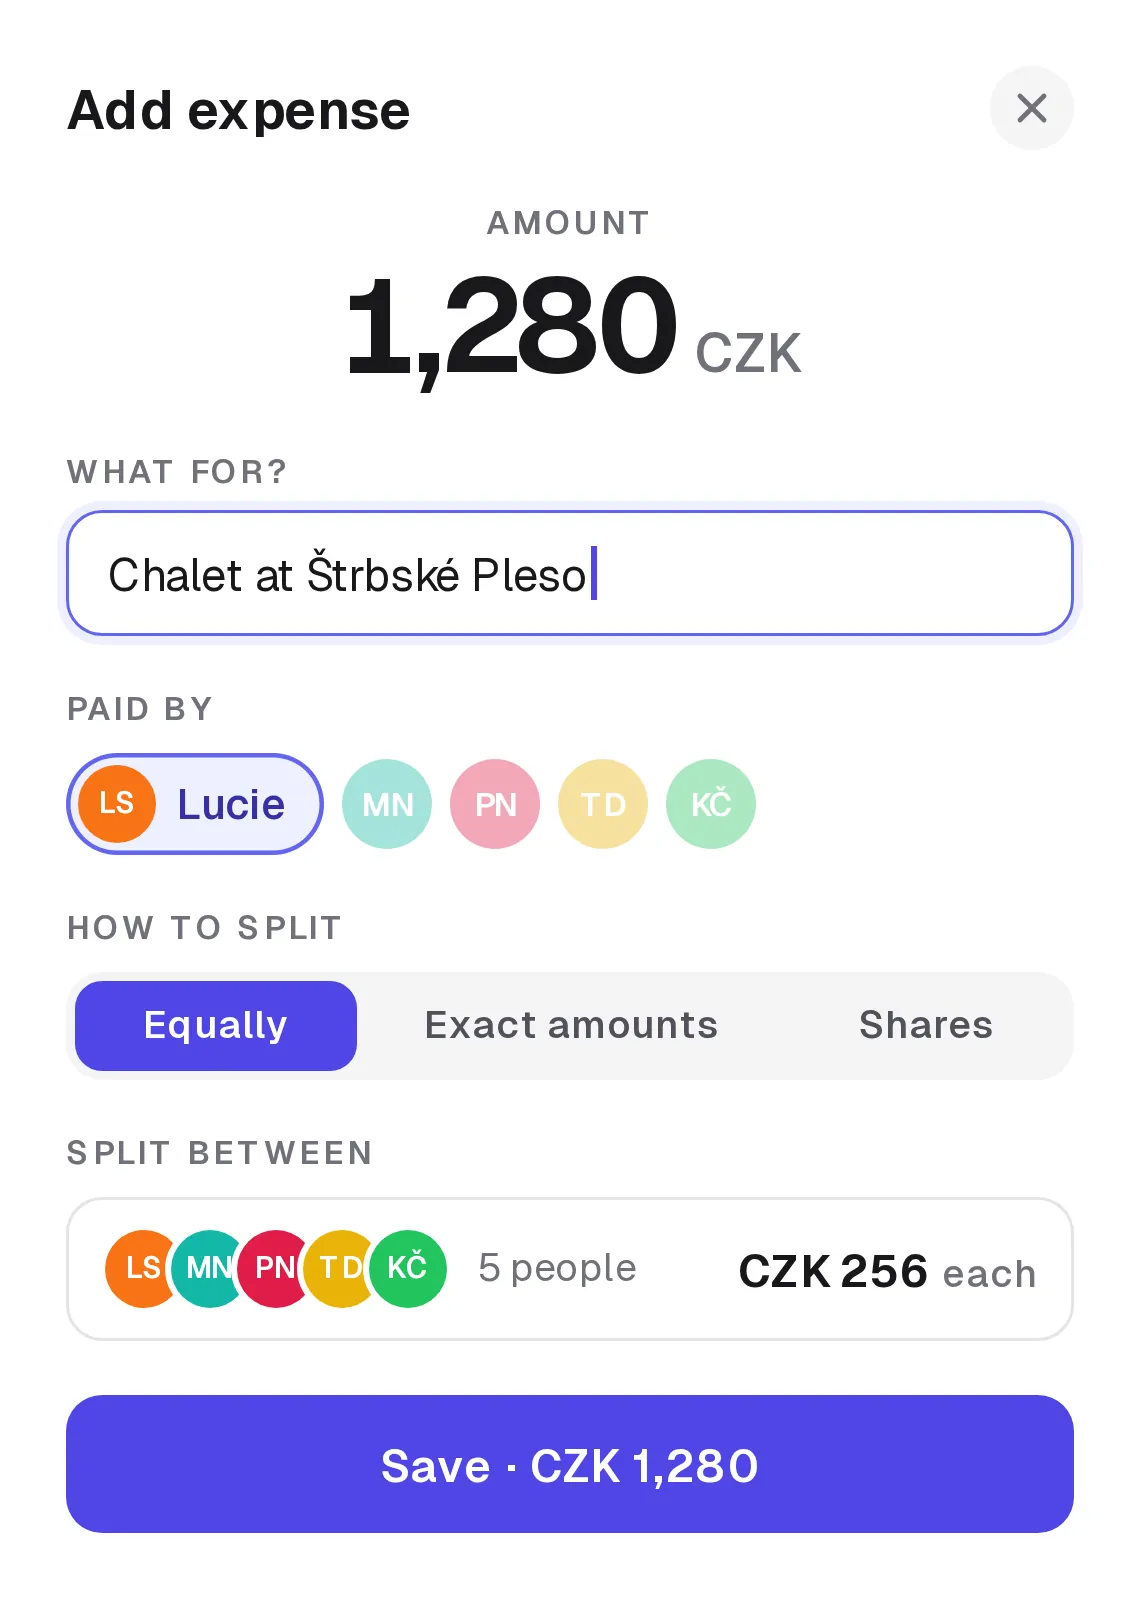
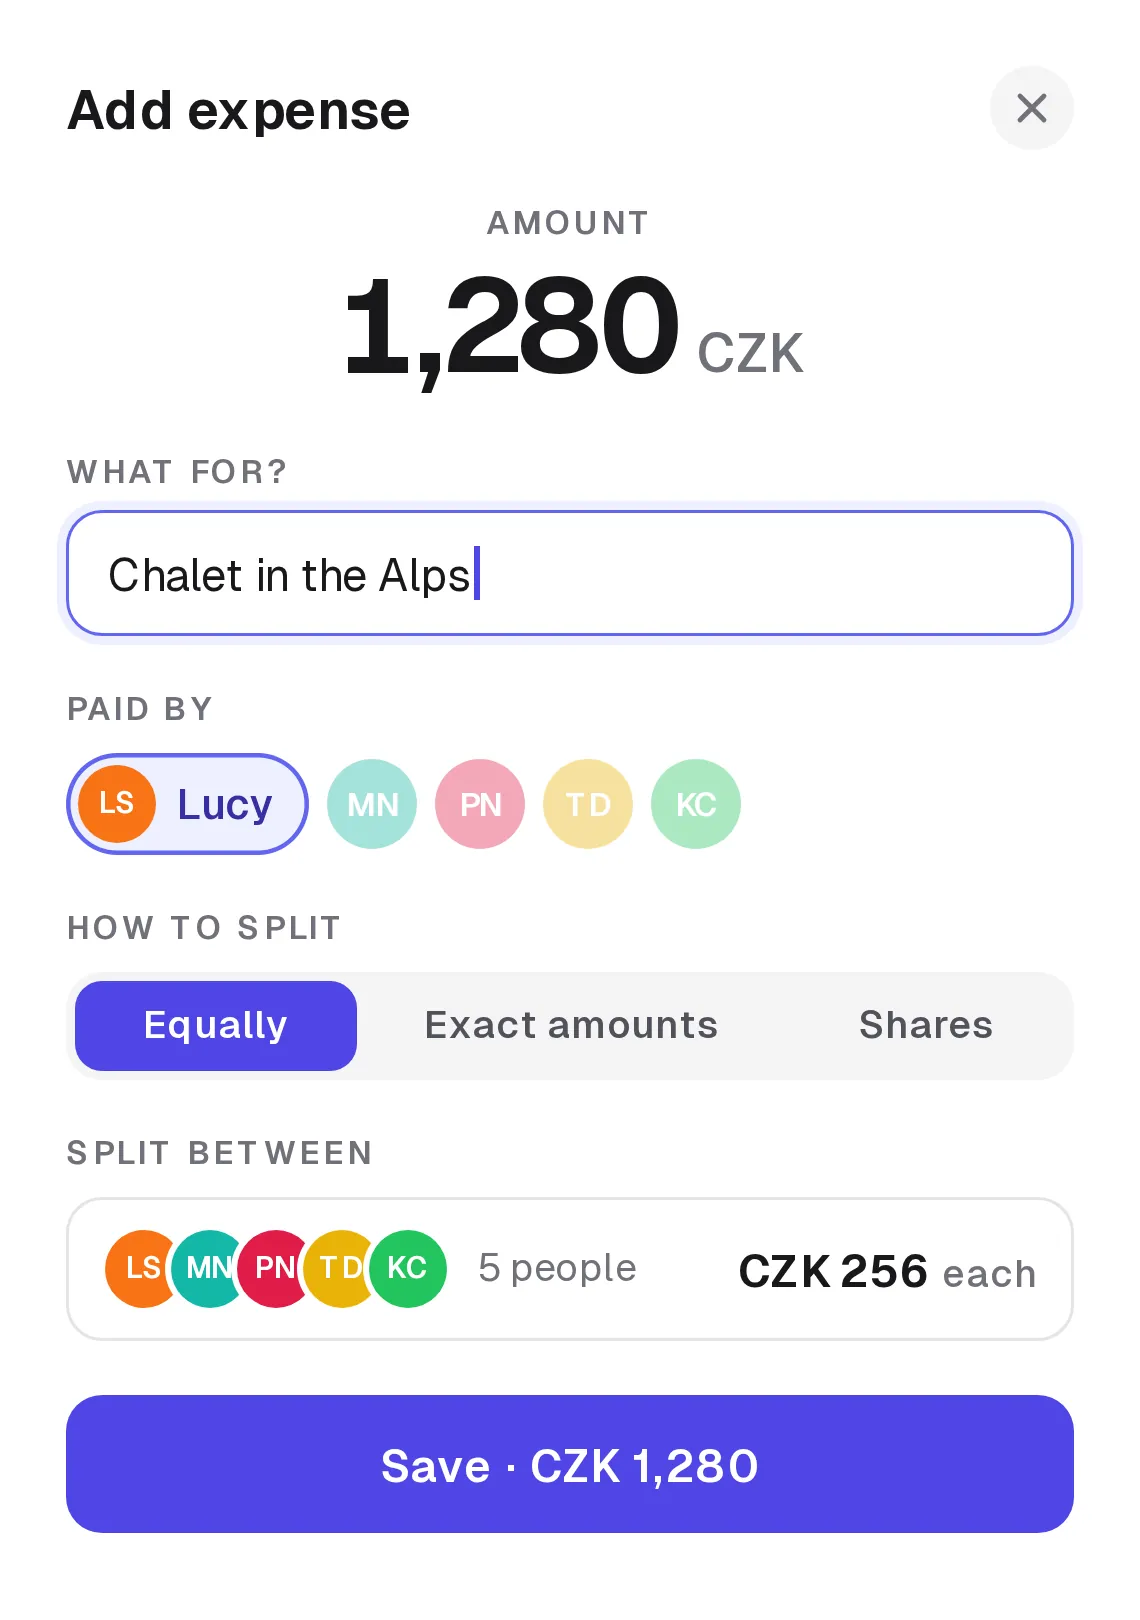
feat(web): English data in the /en product screenshots
Re-rendered the add-expense and group-balances images for English with
Lucy, Martin, Paul, Tom and Kate and "Chalet in the Alps"; same size,
crop and amounts. Alt text updated to match.

Claude-Session: https://claude.ai/code/session_01VkNw3HY5nFhsU7AS1gs5d4

diff --git a/packages/i18n/src/locales/marketing.ts b/packages/i18n/src/locales/marketing.ts
@@ -347,9 +347,9 @@ const marketingOnlyEn: Record<keyof typeof marketingOnlyCs, string> = {
   'marketing.shots.lede':
     'An amount, a name and who paid. EvenUp splits it, and the whole group’s balances are right before the sheet closes.',
   'marketing.shots.groupCaption':
-    'The group’s balances after the {amount} chalet: Lucie is up {gain}, everyone else down {share}. Lucie and Martin are in credit; Pavel, Tomáš and Kateřina owe.',
+    'The group’s balances after the {amount} chalet: Lucy is up {gain}, everyone else down {share}. Lucy and Martin are in credit; Paul, Tom and Kate owe.',
   'marketing.shots.expenseCaption':
-    'A new expense, the chalet at Štrbské Pleso for 1,280 CZK, paid by Lucie and split equally between five people at 256 CZK each.',
+    'A new expense, the chalet in the Alps for 1,280 CZK, paid by Lucy and split equally between five people at 256 CZK each.',
   'marketing.feature.debts.body':
     'Seven people, a week in the mountains, seventeen debts between them. EvenUp nets them against each other into the fewest transfers that settle everyone.',
   'marketing.feature.debts.short': 'Netted down to the fewest transfers.',
